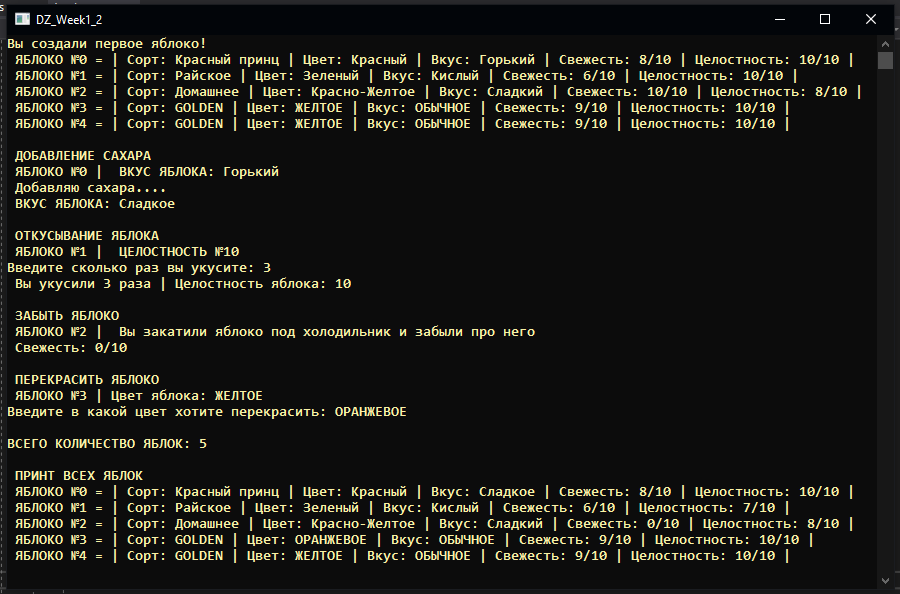
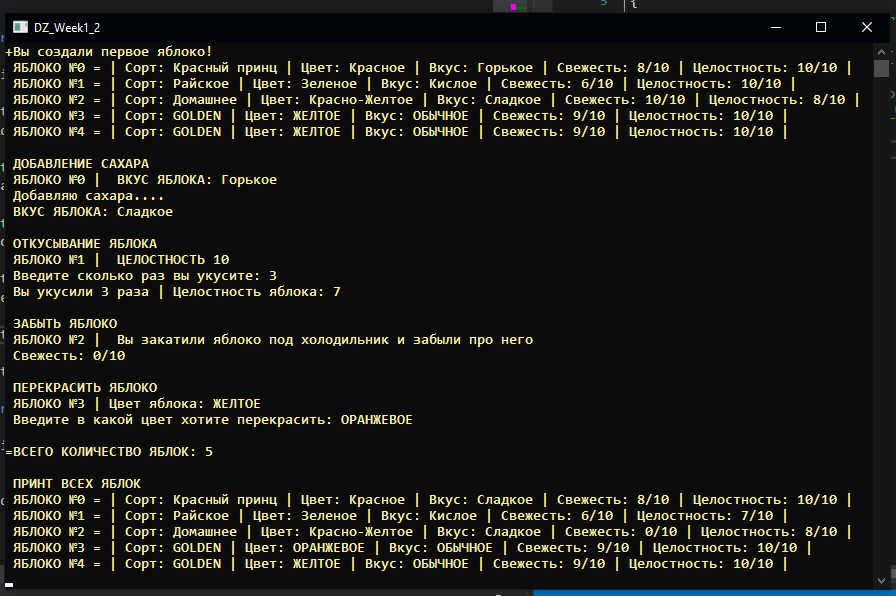
debug

Changed region(s): [[0.0, 0.0, 1.0, 1.0]]

diff --git a/DzWeek1_2 Apple/Apple.cs b/DzWeek1_2 Apple/Apple.cs
@@ -32,9 +32,9 @@ namespace GoToCSharp
             Console.Title = "DZ_Week1_2";
 
             Apple[] apples = {
-                new Apple("Красный принц", "Красный", "Горький", 8, 10),
-                new Apple("Райское", "Зеленый", "Кислый", 6, 10),
-                new Apple("Домашнее", "Красно-Желтое", "Сладкий", 10, 8),
+                new Apple("Красный принц", "Красное", "Горькое", 8, 10),
+                new Apple("Райское", "Зеленое", "Кислое", 6, 10),
+                new Apple("Домашнее", "Красно-Желтое", "Сладкое", 10, 8),
                 new Apple(),
                 new Apple()
             };
@@ -55,7 +55,7 @@ namespace GoToCSharp
             Console.WriteLine("\n ПЕРЕКРАСИТЬ ЯБЛОКО ");
             apples[3].Repaint();
 
-            Console.WriteLine($"\nВСЕГО КОЛИЧЕСТВО ЯБЛОК: {Apple.Count}");
+            Console.WriteLine($"\n=ВСЕГО КОЛИЧЕСТВО ЯБЛОК: {Apple.Count}");
 
             Console.WriteLine("\n ПРИНТ ВСЕХ ЯБЛОК");
 
@@ -118,7 +118,7 @@ namespace GoToCSharp
 
         static Apple()
         {
-            Console.WriteLine("Вы создали первое яблоко!");
+            Console.WriteLine("+Вы создали первое яблоко!");
         }
 
         public Apple()
@@ -151,14 +151,13 @@ namespace GoToCSharp
         public void Eat()
         {
             Console.Write($" ЯБЛОКО №{Number} | ");
-            Console.WriteLine($" ЦЕЛОСТНОСТЬ №{Whole} ");
+            Console.WriteLine($" ЦЕЛОСТНОСТЬ {Whole} ");
 
-            Console.Write("Введите сколько раз вы укусите: ");
+            Console.Write(" Введите сколько раз вы укусите: ");
             int bite = Int32.Parse(Console.ReadLine());
 
-            Console.WriteLine($" Вы укусили {bite} раза | Целостность яблока: {Whole} ");
-
             Whole -= bite;
+            Console.WriteLine($" Вы укусили {bite} раза | Целостность яблока: {Whole} ");
         }
 
         public void Forget()
@@ -173,7 +172,7 @@ namespace GoToCSharp
         {
             Console.Write($" ЯБЛОКО №{Number} | ");
             Console.WriteLine($"Цвет яблока: {Color}");
-            Console.Write("Введите в какой цвет хотите перекрасить: ");
+            Console.Write(" Введите в какой цвет хотите перекрасить: ");
             string newColor = Console.ReadLine();
             Color = newColor;
         }
